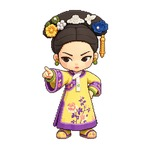
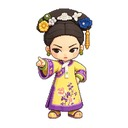
feat: 双击唤醒、像素图、声波动画等多处优化
- 移除语音唤醒（VAD），改为双击屏幕唤醒
- 待机页显示"敲一敲唤醒我哦"提示
- 聊天时添加声波动画显示用户语音能量
- 角色头像替换为像素风格图片，统一尺寸128x128
- 角色表情切换恢复正常（不再忽大忽小）
- 更新LLMClient支持sad/angry表情

diff --git a/src/ui/ChatUI.cpp b/src/ui/ChatUI.cpp
@@ -39,7 +39,8 @@ ChatUI::ChatUI(CharacterManager& charMgr, AudioRecorder& recorder,
     : _charMgr(charMgr), _recorder(recorder), _stt(stt),
       _tts(tts), _llm(llm), _display(display), _camera(camera),
       _state(AppState::NO_CHARACTER), _isRecording(false),
-      _idleStartMs(0), _lastExpression("idle") {}
+      _idleStartMs(0), _lastExpression("idle"),
+      _lastTapTime(0), _tapCount(0) {}
 
 void ChatUI::begin() {
     _display.begin();
@@ -48,7 +49,6 @@ void ChatUI::begin() {
         _display.drawIdle(ch.name, ch.avatarPath, "idle");
         _display.showBottomBar(false);
         _state = AppState::IDLE;
-        _recorder.startListening();
     } else {
         _display.drawNoCharacter();
         _display.showBottomBar(true);
@@ -62,19 +62,17 @@ void ChatUI::update() {
     // ── 音频泵（驱动录音和 VAD 监听）──
     _recorder.update();
 
-    // ── 声波动画（监听状态显示音频能量）──
-    if (_state == AppState::IDLE || _state == AppState::CHATTING) {
-        int lvl = _recorder.isListening() ? _recorder.getAudioLevel() : 0;
-        _display.drawWaveIcon(lvl);
+    // ── 声波动画（CHATTING 状态显示用户语音能量）──
+    if (_state == AppState::CHATTING) {
+        int lvl = _recorder.getAudioLevel();
+        if (lvl > 0) _display.drawWaveIcon(lvl);
     }
 
-    // ── 语音结束处理（IDLE = 唤醒检测，CHATTING = 对话）──
+    // ── 语音结束处理（仅 CHATTING 状态下的对话）──
     if (_recorder.speechJustEnded()) {
         _recorder.stopListening();
 
-        if (_state == AppState::IDLE) {
-            _processWakeWord();
-        } else if (_state == AppState::CHATTING) {
+        if (_state == AppState::CHATTING) {
             _processAndReply();
         }
         return;
@@ -102,7 +100,7 @@ void ChatUI::update() {
         return;
     }
 
-    // CHATTING → IDLE 超时 → 启动语音监听
+    // CHATTING → IDLE 超时
     if (_state == AppState::CHATTING
         && millis() - _idleStartMs > IDLE_TIMEOUT_MS) {
         const auto& ch = _charMgr.current();
@@ -111,7 +109,7 @@ void ChatUI::update() {
         _display.showBottomBar(false);
         _state = AppState::IDLE;
         _idleStartMs = millis();
-        _recorder.startListening();
+        _recorder.stopListening();
         return;
     }
 
@@ -134,7 +132,25 @@ void ChatUI::_handleTouch() {
 
     if (_isTouchOnRecognizeButton(t.x, t.y)) {
         _onRecognizeTap();
-    } else if (_isTouchOnMicButton(t.x, t.y)) {
+        return;
+    }
+
+    // ── IDLE：双击屏幕唤醒 ──
+    if (_state == AppState::IDLE) {
+        uint32_t now = millis();
+        if (now - _lastTapTime < 500 && _tapCount == 1) {
+            _tapCount = 0;
+            _lastTapTime = 0;
+            _onDoubleTapWake();
+            return;
+        }
+        _tapCount = 1;
+        _lastTapTime = now;
+        return;
+    }
+
+    // ── CHATTING：单击回到待机 ──
+    if (_state == AppState::CHATTING) {
         _onMicButtonTap();
     }
 }
@@ -142,23 +158,9 @@ void ChatUI::_handleTouch() {
 void ChatUI::_onMicButtonTap() {
     if (_state == AppState::RECOGNIZING
         || _state == AppState::PHYSICAL) return;
-
     if (_state == AppState::NO_CHARACTER) return;
 
-    // 离线调试：待机时点击麦克风直接显示对话界面预览
-    if (_state == AppState::IDLE) {
-        _recorder.stopListening();
-        const auto& ch = _charMgr.current();
-        _lastReplyText = "你好呀～我是" + ch.name + "！\n今天想聊点什么呢？";
-        _lastExpression = "happy";
-        _display.drawSplitLayout(ch.name, ch.avatarPath, _lastReplyText, _lastExpression);
-        _display.showBottomBar(false);
-        _state = AppState::CHATTING;
-        _idleStartMs = millis();
-        return;
-    }
-
-    // 离线调试：对话界面再点麦克风回到待机
+    // 单击回到待机
     if (_state == AppState::CHATTING) {
         const auto& ch = _charMgr.current();
         _lastExpression = "idle";
@@ -166,7 +168,7 @@ void ChatUI::_onMicButtonTap() {
         _display.showBottomBar(false);
         _state = AppState::IDLE;
         _idleStartMs = millis();
-        _recorder.startListening();
+        _recorder.stopListening();
         return;
     }
 
@@ -226,42 +228,17 @@ void ChatUI::_processAndReply() {
     _recorder.startListening();  // 连续对话：继续监听下一句
 }
 
-// ── 唤醒词检测 ──────────────────────────────────────────────────────
+// ── 双击屏幕唤醒 ──────────────────────────────────────────────────
 
-void ChatUI::_processWakeWord() {
-    // 不改变 UI，静默发送 STT 检测唤醒词
-    String text = _stt.recognize(_recorder.getBuffer(),
-                                  _recorder.getSampleCount());
-    _recorder.clearBuffer();
-
-    if (!_isWakeWord(text)) {
-        // 不是唤醒词 → 无声忽略，继续监听
-        _recorder.startListening();
-        return;
-    }
-
-    Serial.printf("[Wake] 唤醒词: %s\n", text.c_str());
-
-    // 唤醒成功：此时才更新 UI
+void ChatUI::_onDoubleTapWake() {
     const auto& ch = _charMgr.current();
-    _lastReplyText = "在呢！";
+    _lastReplyText = "你好呀～我是" + ch.name + "！\n今天想聊点什么呢？";
     _lastExpression = "happy";
     _display.drawSplitLayout(ch.name, ch.avatarPath, _lastReplyText, _lastExpression);
     _display.showBottomBar(false);
-
-    _recorder.pauseMic();
-    _tts.speak("在呢！");
-    _recorder.resumeMic();
-
-    // 进入对话状态，监听用户的下一个问题
-    _setState(AppState::CHATTING);
+    _state = AppState::CHATTING;
+    _idleStartMs = millis();
     _recorder.startListening();
-}
-
-bool ChatUI::_isWakeWord(const String& text) {
-    if (text.isEmpty()) return false;
-    // 只要文本包含"哈喽哈喽"就认为是唤醒词
-    return text.indexOf("哈喽哈喽") >= 0;
 }
 
 // ── 识别流程 ──────────────────────────────────────────────────────
@@ -378,12 +355,6 @@ void ChatUI::_restoreM5() {
 }
 
 // ── 触摸区域 ──────────────────────────────────────────────────────
-
-bool ChatUI::_isTouchOnMicButton(int32_t x, int32_t y) {
-    // 隐藏调试：底部中间区域双击触发 mock 对话（按钮已从 UI 移除）
-    if (!(y >= BTN_Y && y <= BTN_Y + BTN_H)) return false;
-    return (x >= 110 && x <= 210);
-}
 
 bool ChatUI::_isTouchOnRecognizeButton(int32_t x, int32_t y) {
     if (_state != AppState::NO_CHARACTER) return false;

diff --git a/src/ui/DisplayManager.cpp b/src/ui/DisplayManager.cpp
@@ -59,6 +59,15 @@ void DisplayManager::drawIdle(const String& name, const String& avatarPath,
 
     _drawNameAt((SCREEN_W - M5.Display.textWidth(name.c_str())) / 2,
                 175, name);
+
+    // 待机提示：双击唤醒
+    M5.Display.setFont(FONT_S);
+    M5.Display.setTextColor(C_MUTED);
+    const char* hint = "敲一敲唤醒我哦";
+    int hintW = M5.Display.textWidth(hint);
+    M5.Display.setCursor((SCREEN_W - hintW) / 2, 200);
+    M5.Display.print(hint);
+
     _lastState = AppState::IDLE;
 }
 
@@ -107,8 +116,6 @@ void DisplayManager::drawSplitLayout(const String& name,
     // 右半：文字
     _lastRightText = text;
     _drawRightText(text);
-
-    _lastState = AppState::GREETING;
 }
 
 // ── 更新右侧文字 ────────────────────────────────────────────────

diff --git a/src/ui/ChatUI.h b/src/ui/ChatUI.h
@@ -37,13 +37,14 @@ private:
     void _onMicButtonTap();
     void _onRecognizeTap();
     void _processAndReply();
-    void _processWakeWord();
-    bool _isWakeWord(const String& text);
     void _runRecognition();
     bool _waitForCaptureTap();
     void _restoreM5();
     void _showGreeting();
+    void _onDoubleTapWake();
 
-    bool _isTouchOnMicButton(int32_t x, int32_t y);
     bool _isTouchOnRecognizeButton(int32_t x, int32_t y);
+
+    uint32_t _lastTapTime;
+    uint8_t  _tapCount;
 };

diff --git a/src/main.cpp b/src/main.cpp
@@ -83,7 +83,7 @@ void setup() {
         return;
     }
 
-    // 初始化麦克风（语音唤醒需要）
+    // 初始化麦克风（对话录音需要）
     recorder.begin();
 
     // 相机延迟初始化：CoreS3 相机 I2C 初始化失败会污染 I2C 总线，
